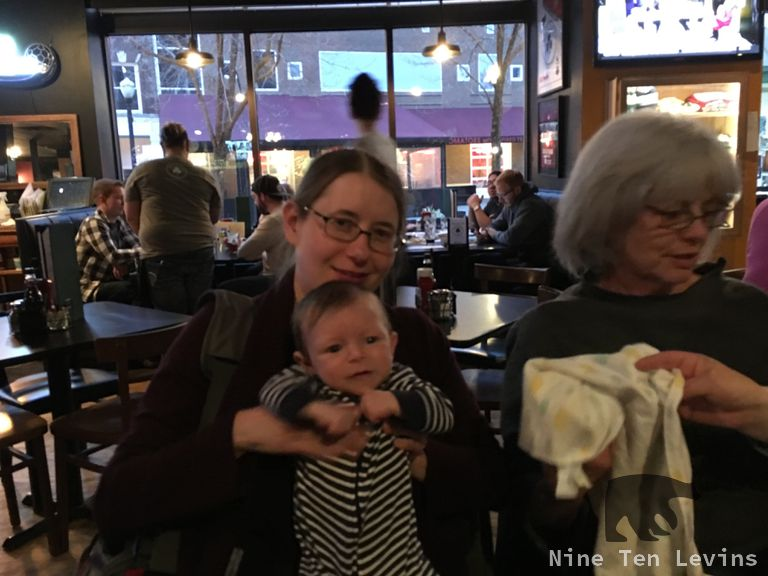
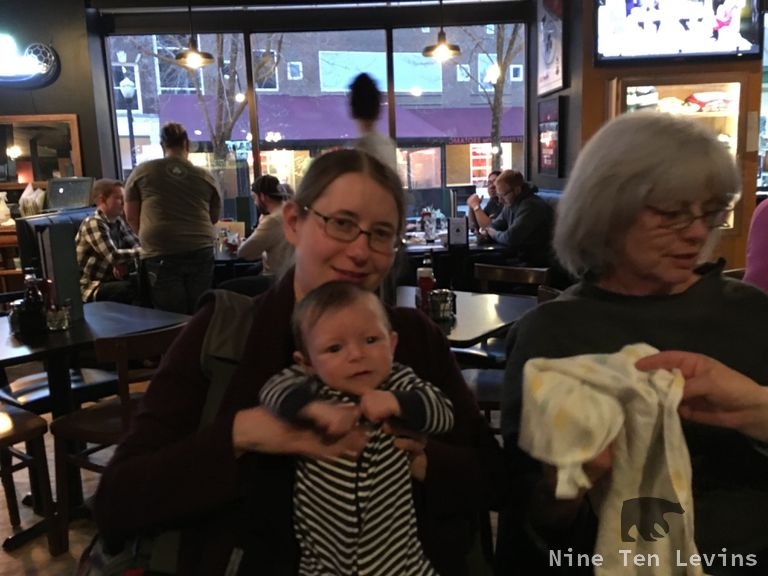
Fixing setting in watermark.

Changed region(s): [[0.7812, 0.8125, 0.9062, 0.9375]]

diff --git a/drafts/soyouwanttojointheforeignservicepart1.html b/drafts/soyouwanttojointheforeignservicepart1.html
@@ -157,7 +157,7 @@ role="navigation">
   <div class="panel-heading">
     <h4 class="panel-title">
       <a data-toggle="collapse" href="#series_content">
-        Part <built-in method index of unicode object at 0x1058b1450> of the  series
+        Part <built-in method index of unicode object at 0x10d3ea450> of the  series
       </a>
     </h4>
   </div>

diff --git a/drafts/soyouwanttojointheforeignservicepart2.html b/drafts/soyouwanttojointheforeignservicepart2.html
@@ -138,7 +138,7 @@ role="navigation">
   <div class="panel-heading">
     <h4 class="panel-title">
       <a data-toggle="collapse" href="#series_content">
-        Part <built-in method index of unicode object at 0x1058b1240> of the  series
+        Part <built-in method index of unicode object at 0x10d3ea240> of the  series
       </a>
     </h4>
   </div>

diff --git a/drafts/soyouwanttojointheforeignservicepart3.html b/drafts/soyouwanttojointheforeignservicepart3.html
@@ -138,7 +138,7 @@ role="navigation">
   <div class="panel-heading">
     <h4 class="panel-title">
       <a data-toggle="collapse" href="#series_content">
-        Part <built-in method index of unicode object at 0x1058b8ed0> of the  series
+        Part <built-in method index of unicode object at 0x10d3f1ed0> of the  series
       </a>
     </h4>
   </div>
